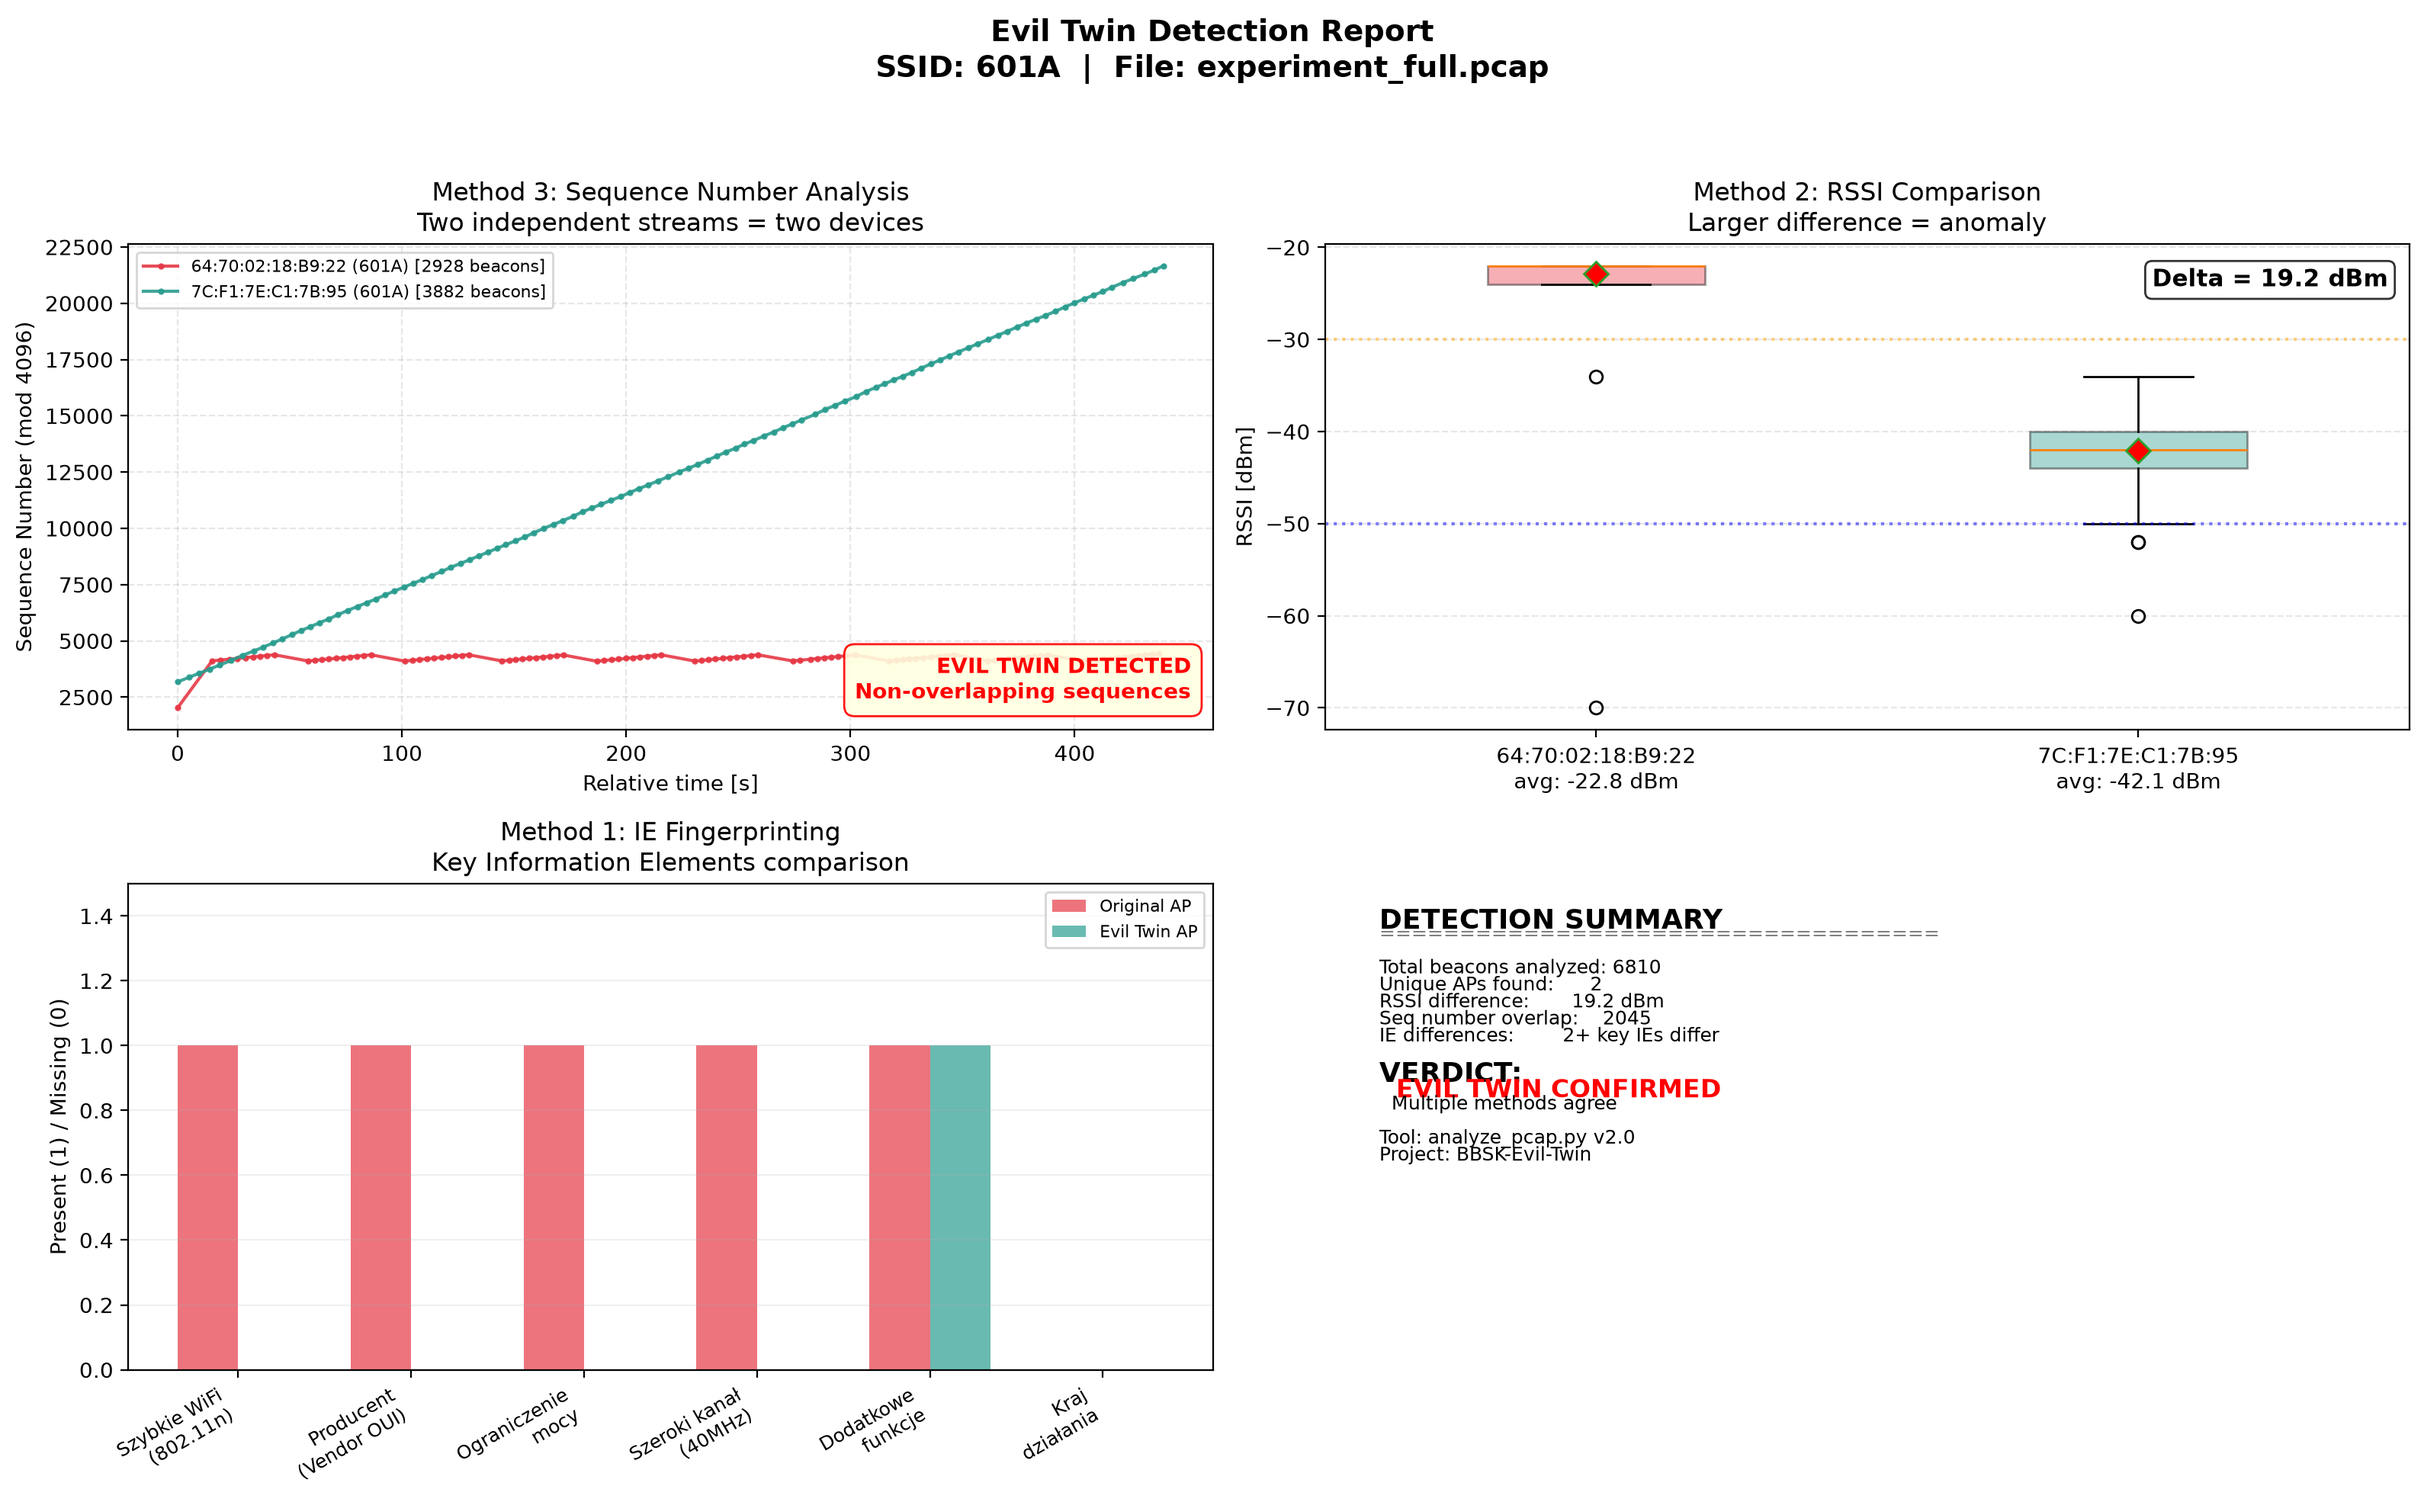
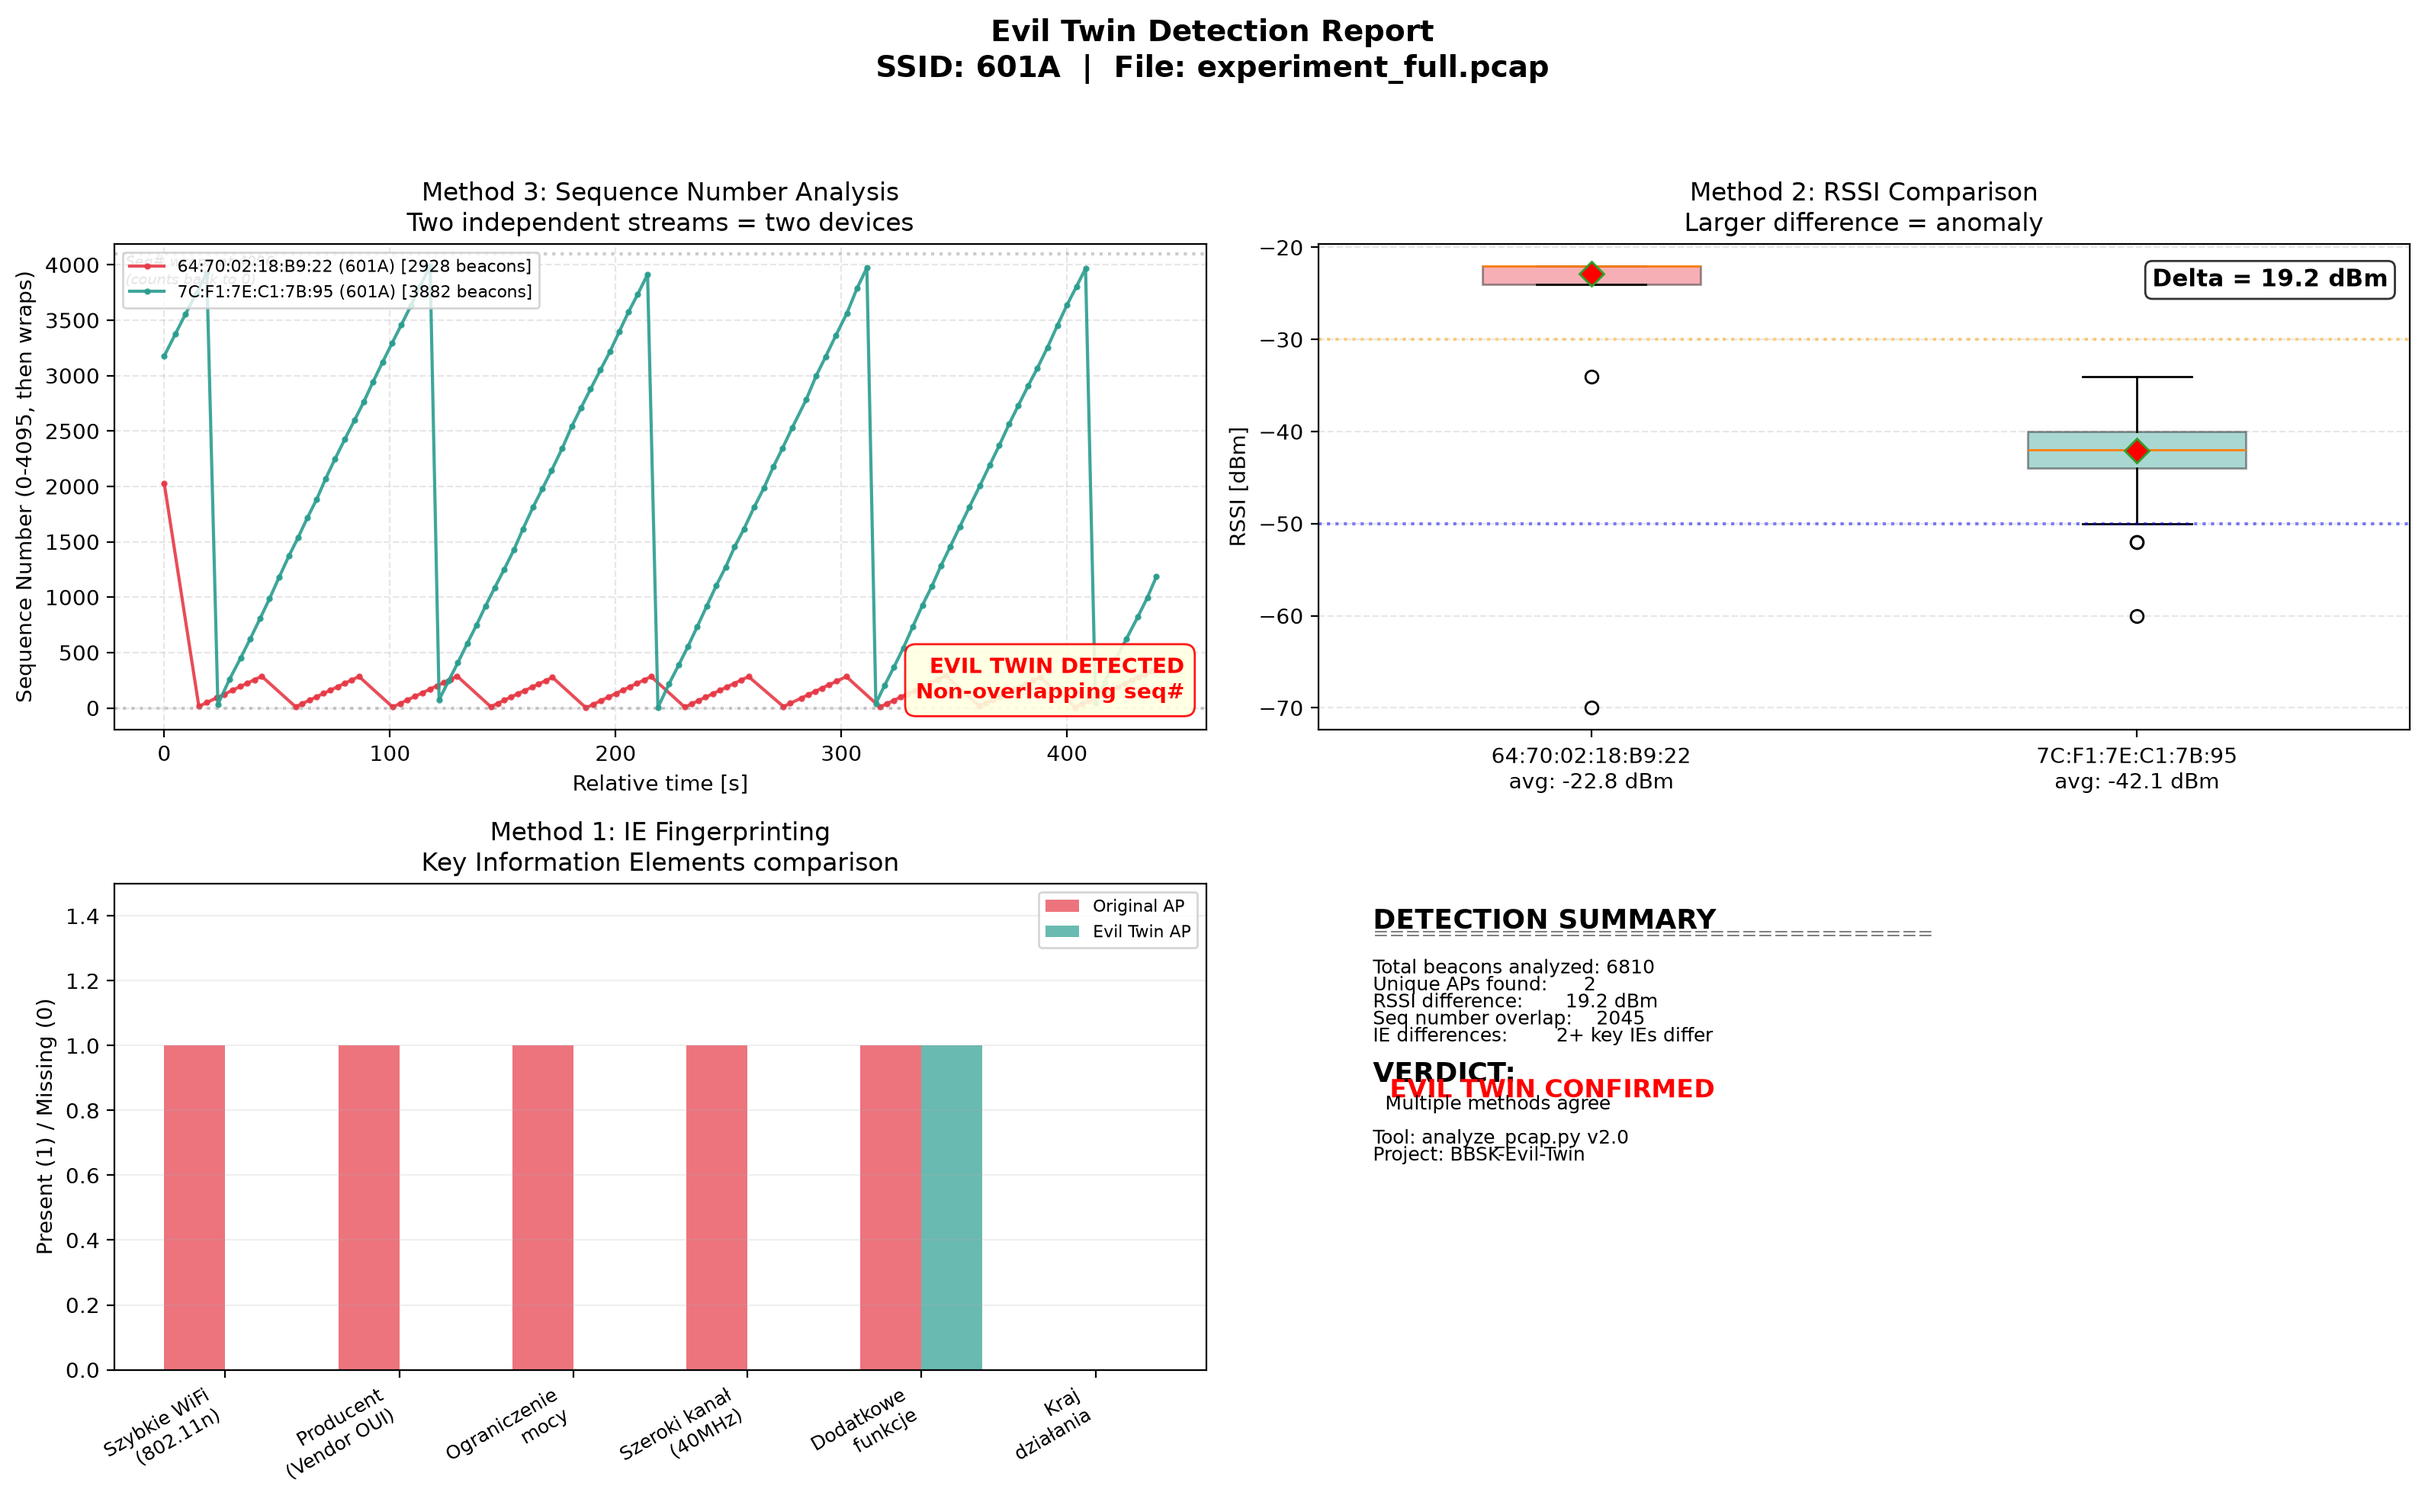
[fix] Sequence chart: raw values + wrap annotations + gray guide lines

diff --git a/skrypty/analyze_pcap.py b/skrypty/analyze_pcap.py
@@ -510,30 +510,26 @@ def _generate_plot(aps: dict, output_path: str, target_ssid: str, pcap_file: str
         t0 = times[0]
         times_rel = [t - t0 for t in times]
 
-        # Kumuluj sequence numbers (wrap-around 0→4095)
-        cum_seq = []
-        offset = 0
-        prev = seqs[0]
-        for s in seqs:
-            if s < prev - 2000:     # skok w dol > 2000 = wrap-around
-                offset += 4096
-            cum_seq.append(s + offset)
-            prev = s
-
         # Subsample dla czytelnosci (max 100 punktow)
         step = max(1, len(times_rel) // 100)
-        ax1.plot(times_rel[::step], cum_seq[::step], "-o", color=color,
+        ax1.plot(times_rel[::step], seqs[::step], "-o", color=color,
                 markersize=2, linewidth=1.5, alpha=0.9,
                 label=f"{bssid.upper()} ({data['ssid']}) [{data['frame_count']} beacons]")
 
     ax1.set_xlabel("Relative time [s]")
-    ax1.set_ylabel("Sequence Number (mod 4096)")
+    ax1.set_ylabel("Sequence Number (0-4095, then wraps)")
     ax1.set_title("Method 3: Sequence Number Analysis\nTwo independent streams = two devices")
     ax1.legend(loc="upper left", fontsize=8)
     ax1.grid(True, alpha=0.3, linestyle="--")
 
+    # Add wrap-around annotation
+    ax1.axhline(y=4095, color="gray", linestyle=":", alpha=0.4)
+    ax1.axhline(y=0, color="gray", linestyle=":", alpha=0.4)
+    ax1.text(0.01, 0.98, "Seq# wraps at 4096\n(counts back to 0)", transform=ax1.transAxes,
+             fontsize=7, color="gray", va="top", fontstyle="italic")
+
     if len(aps) > 1:
-        ax1.text(0.98, 0.05, "EVIL TWIN DETECTED\nNon-overlapping sequences",
+        ax1.text(0.98, 0.05, "EVIL TWIN DETECTED\nNon-overlapping seq#",
                  transform=ax1.transAxes, fontsize=10, color="red", fontweight="bold",
                  ha="right", va="bottom",
                  bbox=dict(boxstyle="round,pad=0.5", facecolor="lightyellow",
